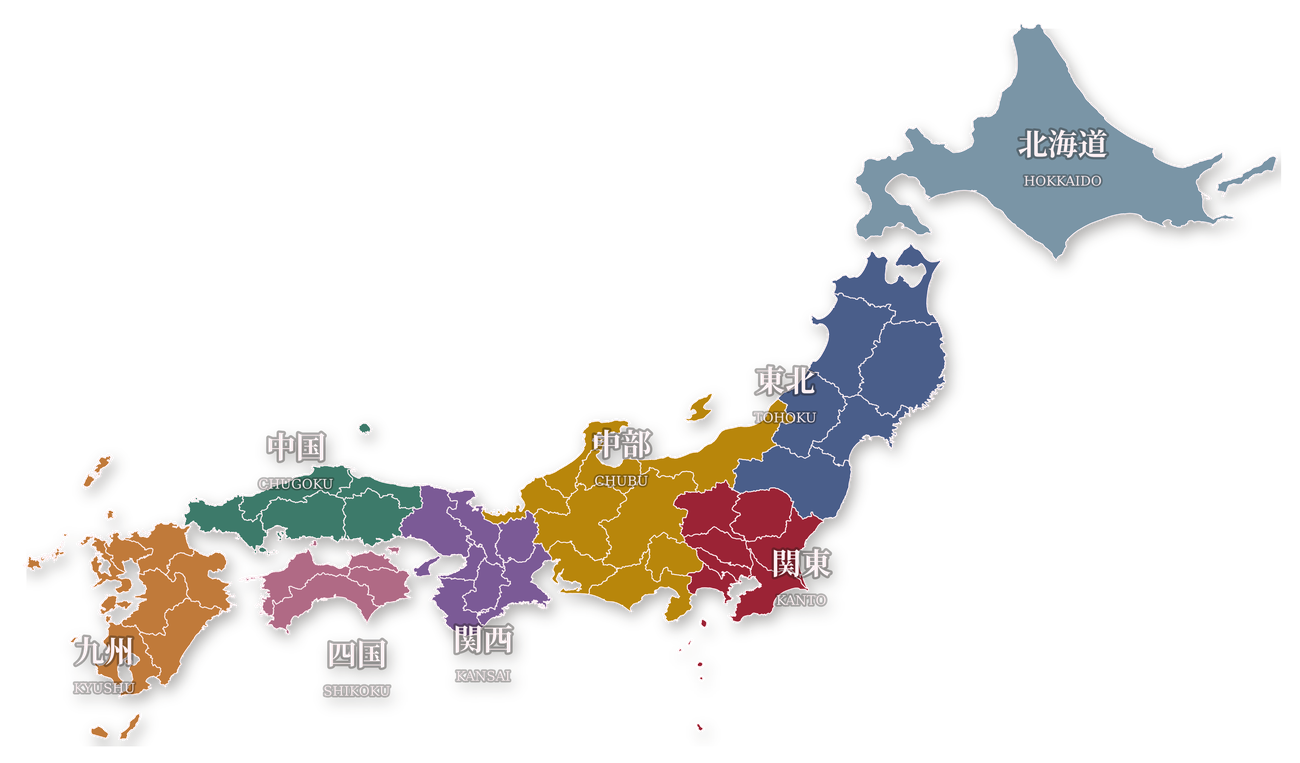
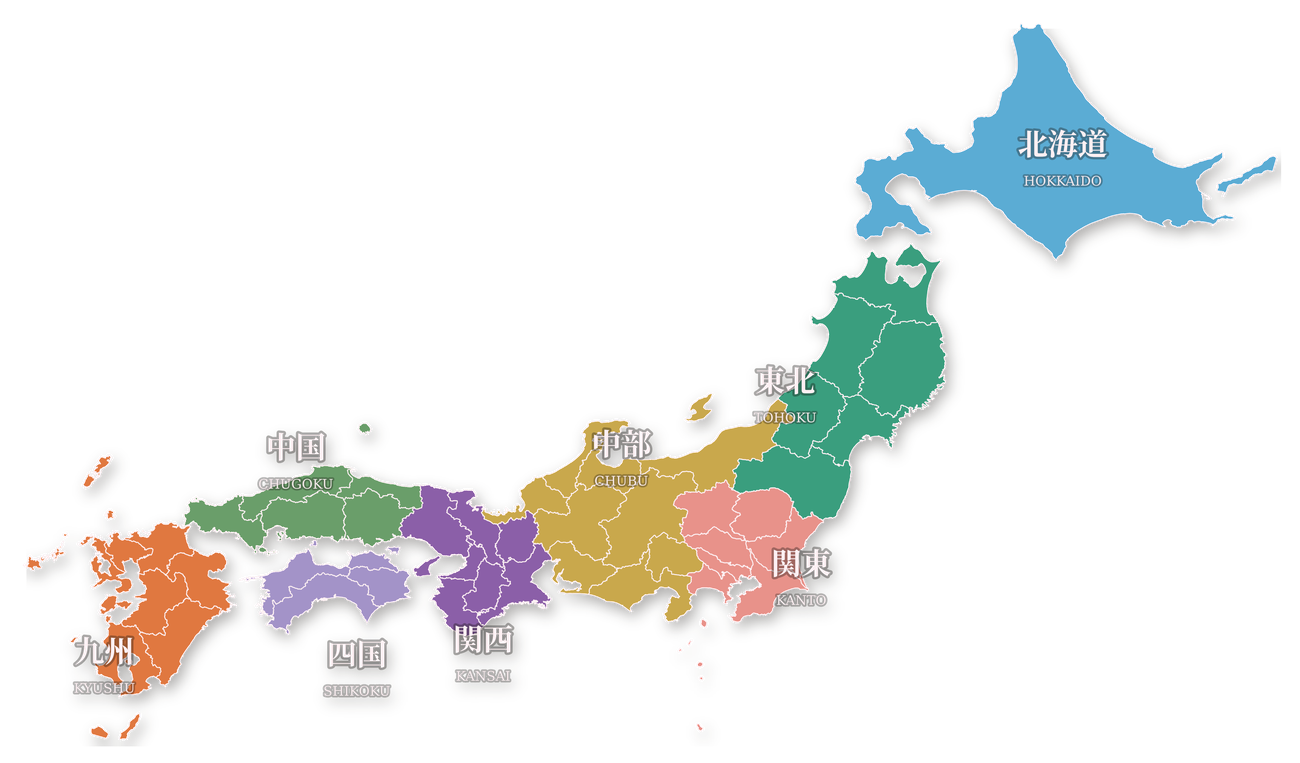
地図の地方色をフィルターボタンの色と完全一致させ、Temple色を抹茶グリーンに変更
地図は独自配色だったためフィルターボタン（Kanto/Kansai/Chubu等）と色が一致
しておらず、紐付けが分かりにくかった。全地方のhexをボタンと同一に統一。
あわせてTempleフィルターの色がHokkaidoの水色と印象が被っていたため、抹茶
グリーン(#4a5e3a)に変更しShrinesの赤と対比を明確化。

Claude-Session: https://claude.ai/code/session_01RAnT5owYuB5xeRPfq1nt8N

diff --git a/index.html b/index.html
@@ -562,7 +562,7 @@ color: var(--washi);
 border-color: var(--sumi);
 }
 button.filter-btn[data-region="shrine"]        { background:#c0392b !important; border-color:#c0392b !important; color:#fff !important; }
-button.filter-btn[data-region="temple"]        { background:#3d3530 !important; border-color:#3d3530 !important; color:#fff !important; }
+button.filter-btn[data-region="temple"]        { background:#4a5e3a !important; border-color:#4a5e3a !important; color:#fff !important; }
 button.filter-btn[data-region="kanto"]         { background:#e8928a !important; border-color:#e8928a !important; color:#fff !important; }
 button.filter-btn[data-region="kansai"]        { background:#8b5fa8 !important; border-color:#8b5fa8 !important; color:#fff !important; }
 button.filter-btn[data-region="chubu"]         { background:#c9a84c !important; border-color:#c9a84c !important; color:#fff !important; }
